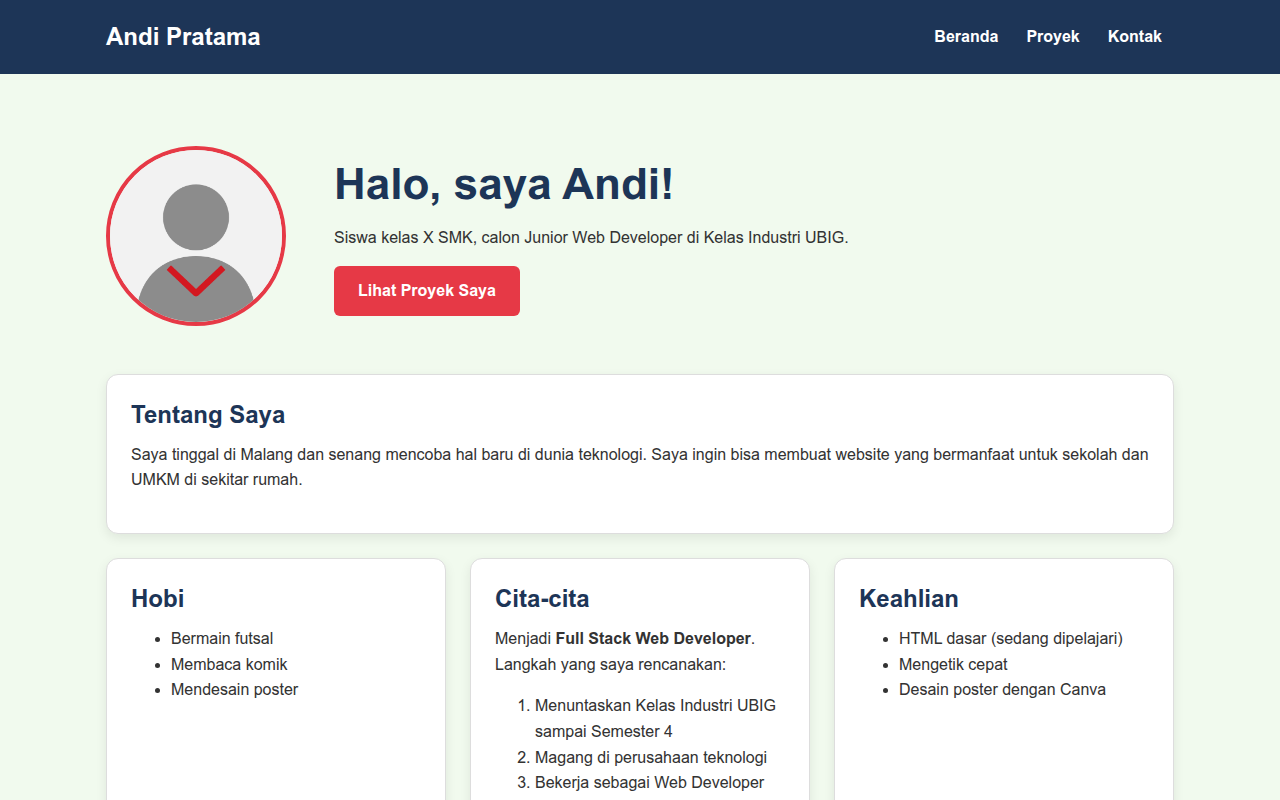
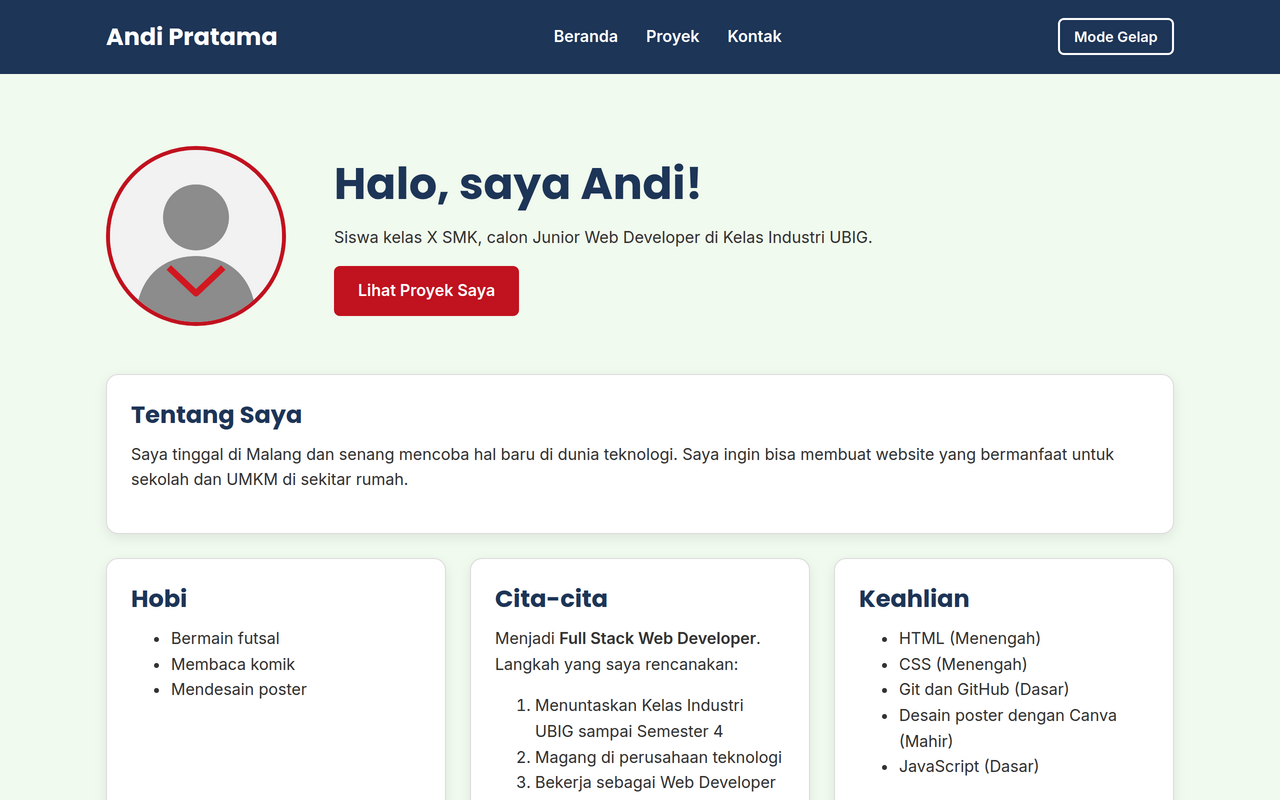
docs: perbarui README Portofolio v2
Closes #2

diff --git a/README.md b/README.md
@@ -1,25 +1,32 @@
 # Portofolio Andi Pratama
 
-Website portofolio pribadi yang saya buat di Kelas Industri UBIG (Paket 1, Minggu 01 sampai 05).
-Website ini tampil rapi di ponsel, tablet, dan laptop.
+Website portofolio pribadi yang saya buat di Kelas Industri UBIG (Paket 1, Minggu 01 sampai 09).
+Versi ini adalah **Portofolio v2**: tampil rapi di ponsel, tablet, dan laptop, serta interaktif dengan JavaScript.
 
 ## Tampilan
 
-![Tampilan beranda portofolio](img/tampilan-portofolio.png)
+![Tampilan beranda Portofolio v2](img/tampilan-portofolio.png)
 
 ## Fitur
 
-- Halaman **Beranda** berisi profil, hobi, cita-cita, keahlian, dan jadwal belajar
-- Halaman **Proyek** berisi daftar proyek dalam bentuk kartu
-- Halaman **Kontak** berisi form untuk menghubungi saya
+- Halaman **Beranda** berisi profil, hobi, cita-cita, jadwal belajar, dan daftar keahlian dari `data/keahlian.json` yang bisa ditambah
+- Halaman **Proyek** berisi enam kartu proyek dari `data/proyek.json` dengan filter kategori, serta repositori GitHub terbaru dari GitHub API
+- Halaman **Kontak** berisi form dengan penghitung karakter pesan
+- Mode gelap di semua halaman
 - Tampilan responsif dengan Flexbox dan *media query*
 
 ## Teknologi
 
-- HTML5
-- CSS3 (Flexbox dan media query)
-- Git dan GitHub
-- VS Code dan Live Server
+- HTML5 dan CSS3 (Flexbox, *media query*, dan variabel CSS)
+- JavaScript (DOM, *event*, `fetch`, dan `async`/`await`)
+- JSON dan GitHub REST API
+- Git, GitHub, dan Vercel
+
+## Skor Lighthouse (mobile)
+
+- Beranda: Performance 96, Accessibility 100, Best Practices 100, SEO 100
+- Proyek: Performance 95, Accessibility 100, Best Practices 100, SEO 100
+- Kontak: Performance 99, Accessibility 100, Best Practices 100, SEO 100
 
 ## Tautan
 
